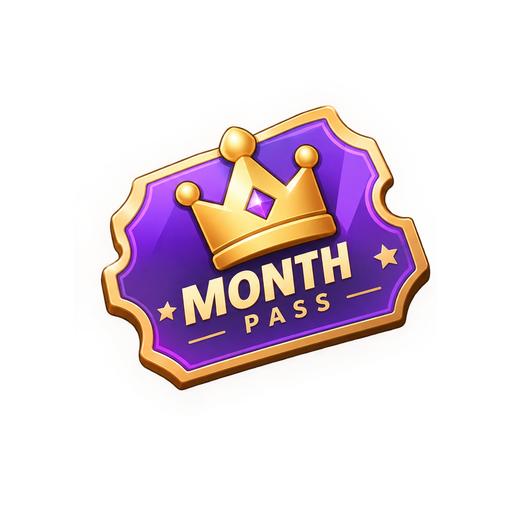
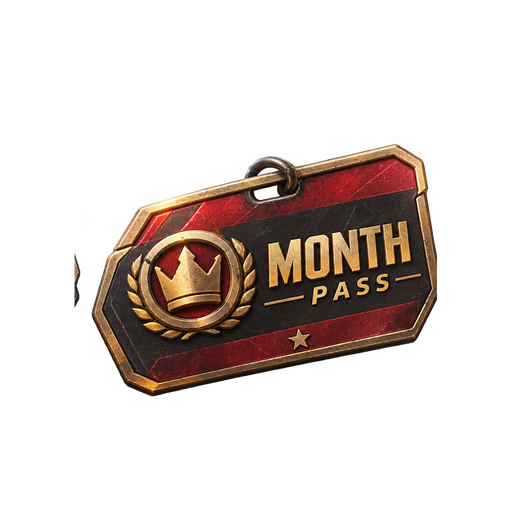
style(store): new metal tag art for the week and month pass

Changed region(s): [[0.1562, 0.1875, 0.875, 0.7812], [0.125, 0.5, 0.1562, 0.5938]]

diff --git a/tools/pass_badges_v2.py b/tools/pass_badges_v2.py
@@ -1,0 +1,30 @@
+from PIL import Image, ImageChops
+
+SRC = r"C:\Users\user\.dsh\attachments\v1\objects\62\620dc04feeb8ff55edc22d6cc06493aff3133412f30b03495b00ea9d803c445d"
+OUT = r"C:\Users\user\Documents\kimi\tasks\2026-11-06\12-50-12-52283f1e\df-backup\assets\ui\store"
+
+im = Image.open(SRC).convert("RGBA")
+w, h = im.size
+half = w // 2
+
+
+def prep(img, name):
+    diff = ImageChops.difference(img.convert("RGB"), Image.new("RGB", img.size, (255, 255, 255)))
+    box = diff.getbbox() or (0, 0, img.size[0], img.size[1])
+    crop = img.crop(box)
+    side = int(max(crop.size) * 1.06)
+    canvas = Image.new("RGBA", (side, side), (0, 0, 0, 0))
+    canvas.paste(crop, ((side - crop.size[0]) // 2, (side - crop.size[1]) // 2))
+    canvas = canvas.resize((512, 512), Image.LANCZOS)
+    px = canvas.load()
+    for y in range(512):
+        for x in range(512):
+            r, g, b, a = px[x, y]
+            if r > 246 and g > 246 and b > 246:
+                px[x, y] = (r, g, b, 0)
+    canvas.save(OUT + "\\" + name)
+    print(name, "from", box)
+
+
+prep(im.crop((0, 0, half, h)), "pass_weekly.png")
+prep(im.crop((half, 0, w, h)), "pass_monthly.png")

diff --git a/tools/title_prompt.py b/tools/title_prompt.py
@@ -1,0 +1,20 @@
+import io
+
+p = r"C:\Users\user\Documents\kimi\tasks\2026-11-06\12-50-12-52283f1e\df-backup\scripts\hud.gd"
+t = io.open(p, encoding="utf-8").read()
+
+old = '''	if menu_art: draw_texture_rect(menu_art,Rect2(0,0,540,game.ui_h),false)
+	else: draw_rect(Rect2(0,0,540,game.ui_h),INK)'''
+new = '''	if menu_art: draw_texture_rect(menu_art,Rect2(0,0,540,game.ui_h),false)
+	else: draw_rect(Rect2(0,0,540,game.ui_h),INK)
+	# The Dreadline poster has no prompt painted on it, so draw it here.
+	var lang_t: String = game.language_code
+	var prompt: String = "点任意处开始" if String(lang_t).begins_with("zh") else "TAP ANYWHERE TO START"
+	var pulse: float = 0.55 + 0.45 * sin(Time.get_ticks_msec() * 0.003)
+	_clean_center(bold, Vector2(270.0, game.ui_h - 150.0), prompt, 22, Color(1, 1, 1, pulse))
+	_clean_center(bold, Vector2(270.0, game.ui_h - 96.0), "v1.0.0", 12, Color(1, 1, 1, 0.45))'''
+assert t.count(old) == 1, t.count(old)
+t = t.replace(old, new, 1)
+
+io.open(p, "w", encoding="utf-8", newline="\n").write(t)
+print("tap prompt drawn on the Dreadline poster")

diff --git a/tools/dreadline_title.py b/tools/dreadline_title.py
@@ -1,0 +1,23 @@
+import io
+
+base = r"C:\Users\user\Documents\kimi\tasks\2026-11-06\12-50-12-52283f1e\df-backup"
+
+# 1) the title screen shows the Dreadline poster
+hp = base + r"\scripts\hud.gd"
+h = io.open(hp, encoding="utf-8").read()
+old = 'menu_art=load("res://assets/ui/cover.png")'
+new = 'menu_art=load("res://assets/ui/title_screen.png")'
+assert h.count(old) == 1
+h = h.replace(old, new, 1)
+io.open(hp, "w", encoding="utf-8", newline="\n").write(h)
+print("title screen -> Dreadline poster")
+
+# 2) and so does the launch splash
+pp = base + r"\project.godot"
+p = io.open(pp, encoding="utf-8").read()
+old_s = 'boot_splash/image="res://assets/ui/cover.png"'
+new_s = 'boot_splash/image="res://assets/ui/title_screen.png"'
+assert p.count(old_s) == 1
+p = p.replace(old_s, new_s, 1)
+io.open(pp, "w", encoding="utf-8", newline="\n").write(p)
+print("boot splash -> Dreadline poster")

diff --git a/tools/_showkeys.py b/tools/_showkeys.py
@@ -1,0 +1,9 @@
+import io
+import re
+
+p = r"C:\Users\user\Documents\kimi\tasks\2026-11-06\12-50-12-52283f1e\df-backup\scripts\store_catalog.gd"
+t = io.open(p, encoding="utf-8").read()
+
+for key in ("sedan", "sedan_desc", "tank", "tank_desc", "gold_car", "gold_car_desc", "cruiser", "cruiser_desc"):
+    hits = re.findall(r'"%s":"([^"]*)"' % key, t)
+    print(key, "->", hits[:2])
